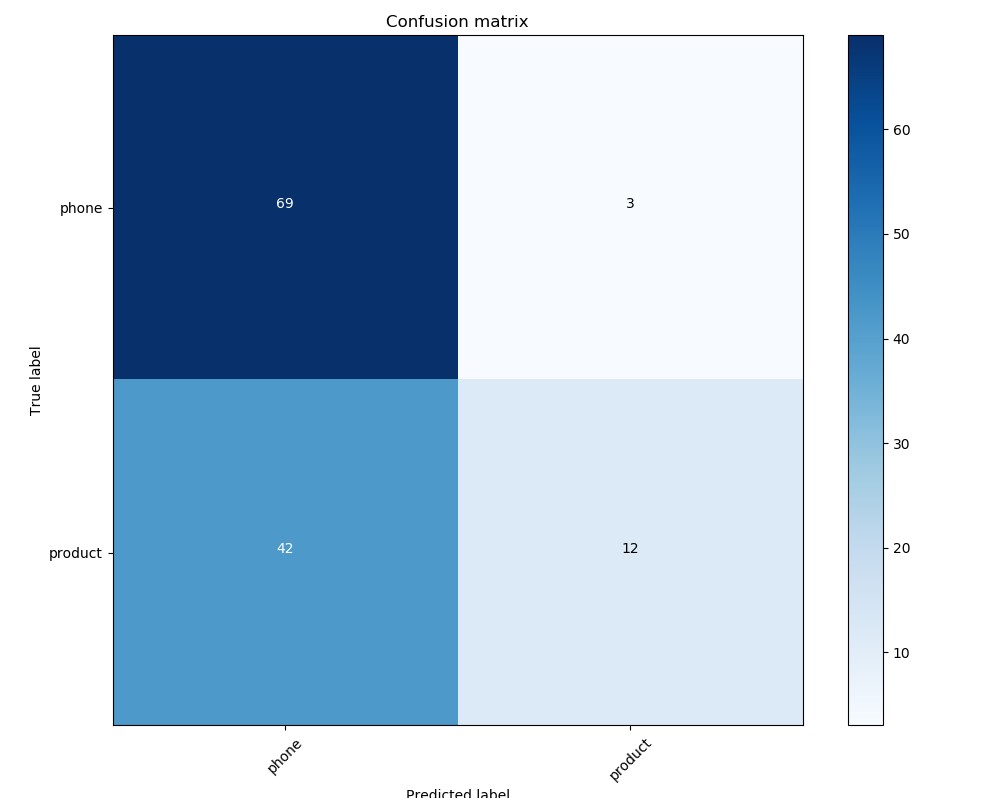
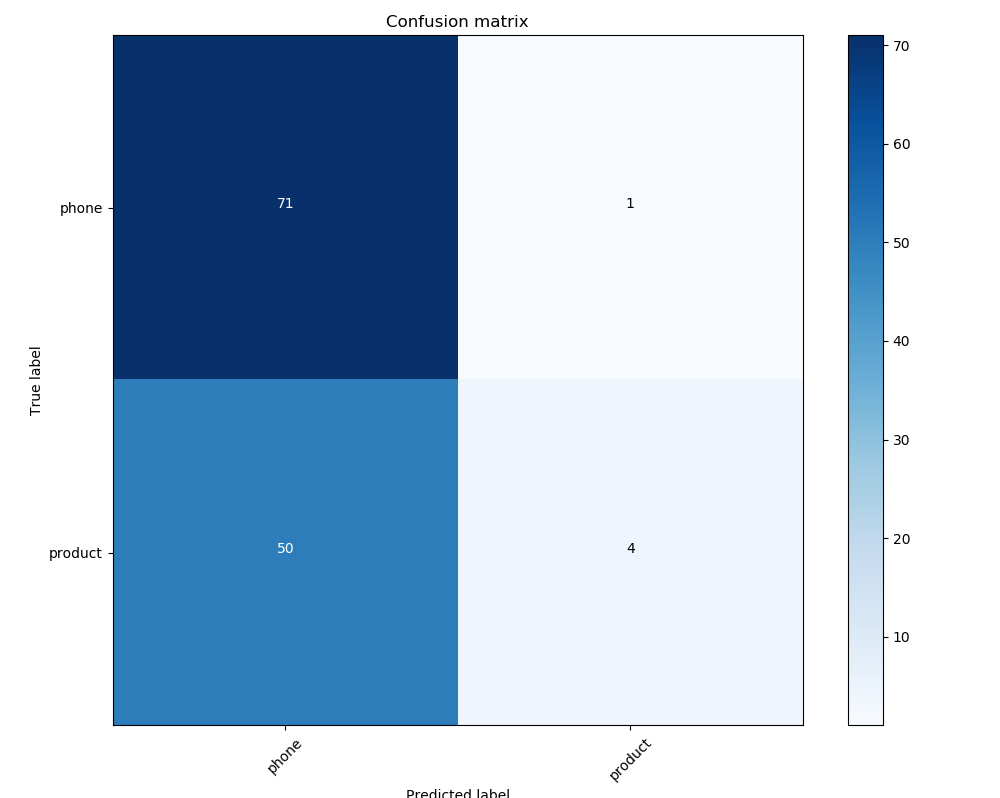
update

diff --git a/Assignment4/decision-list.py b/Assignment4/decision-list.py
@@ -264,7 +264,7 @@ def assign_test_senses(testText,pattern_log):
     #convert pattern log to dictionary of dictionaries and sort in descending value
     pattern = dict()
     for entry, dictdef in pattern_log.items():
-        if dict(dictdef)['value'] >2.3979:
+        if dict(dictdef)['value'] >3.05:
             pattern[entry] = dict(dictdef)
     pattern_log = sorted(dict(pattern).items(), key=lambda k: float(k[1]['value']), reverse=True)
     # print(pattern_log)
